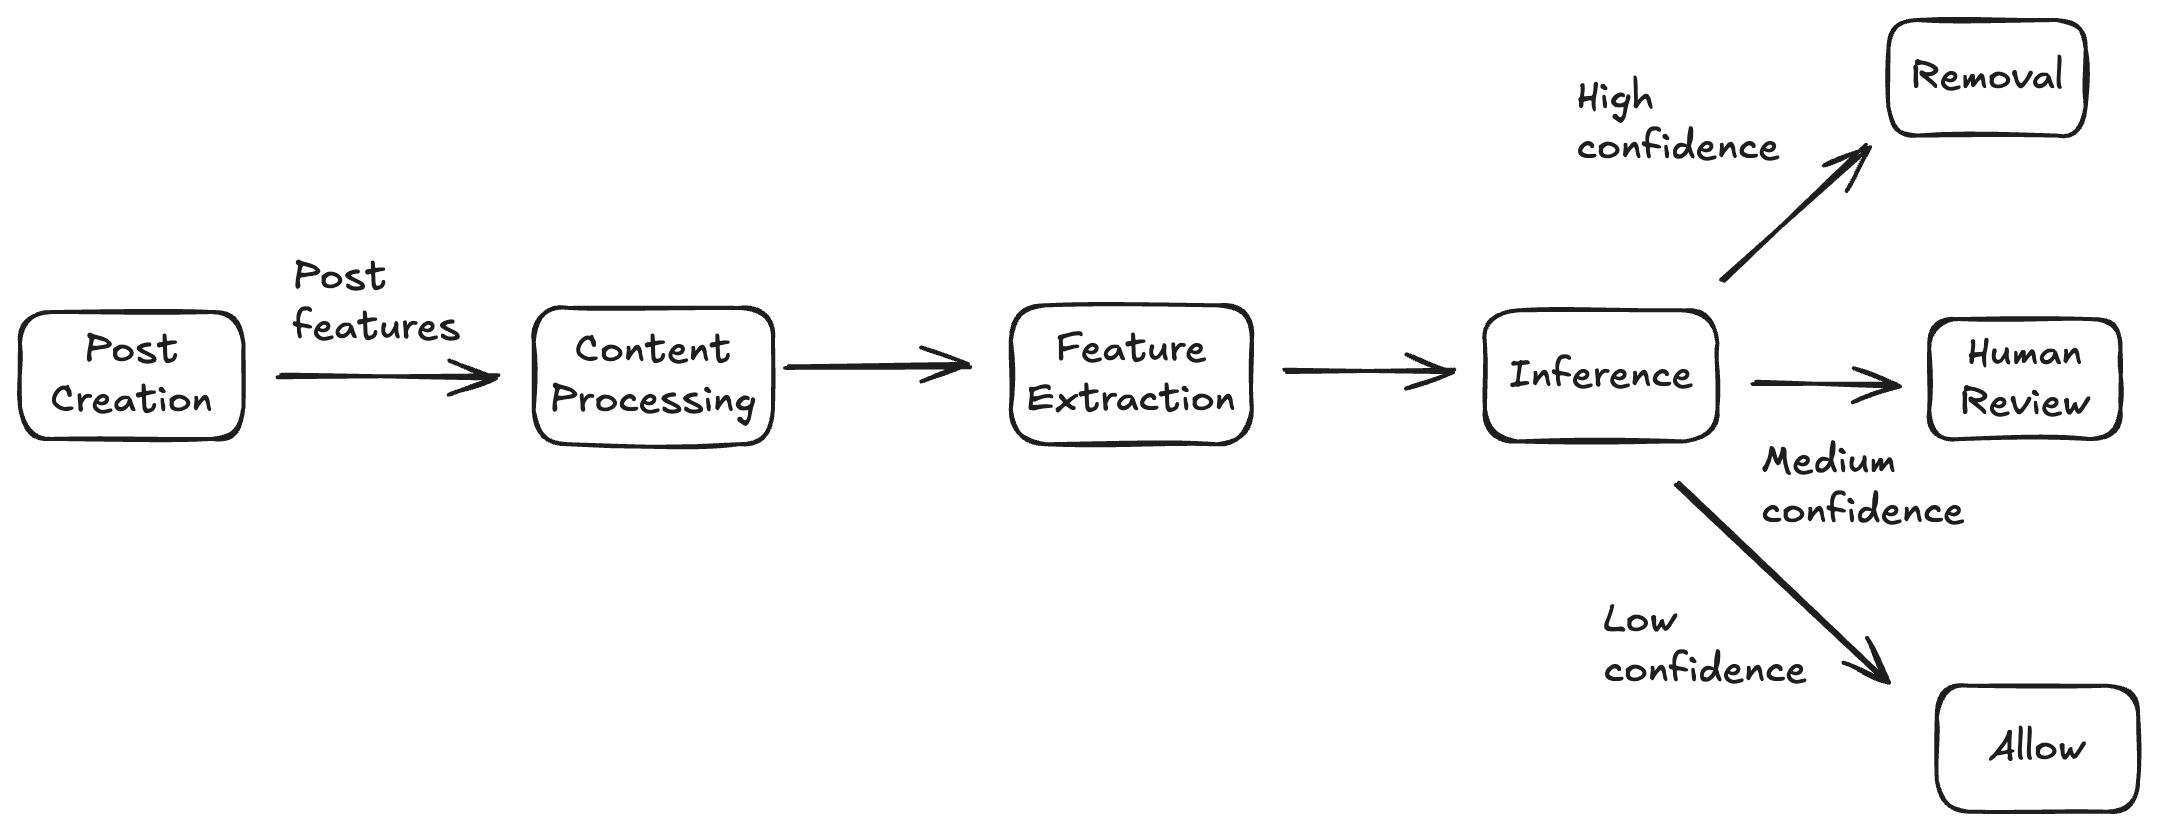
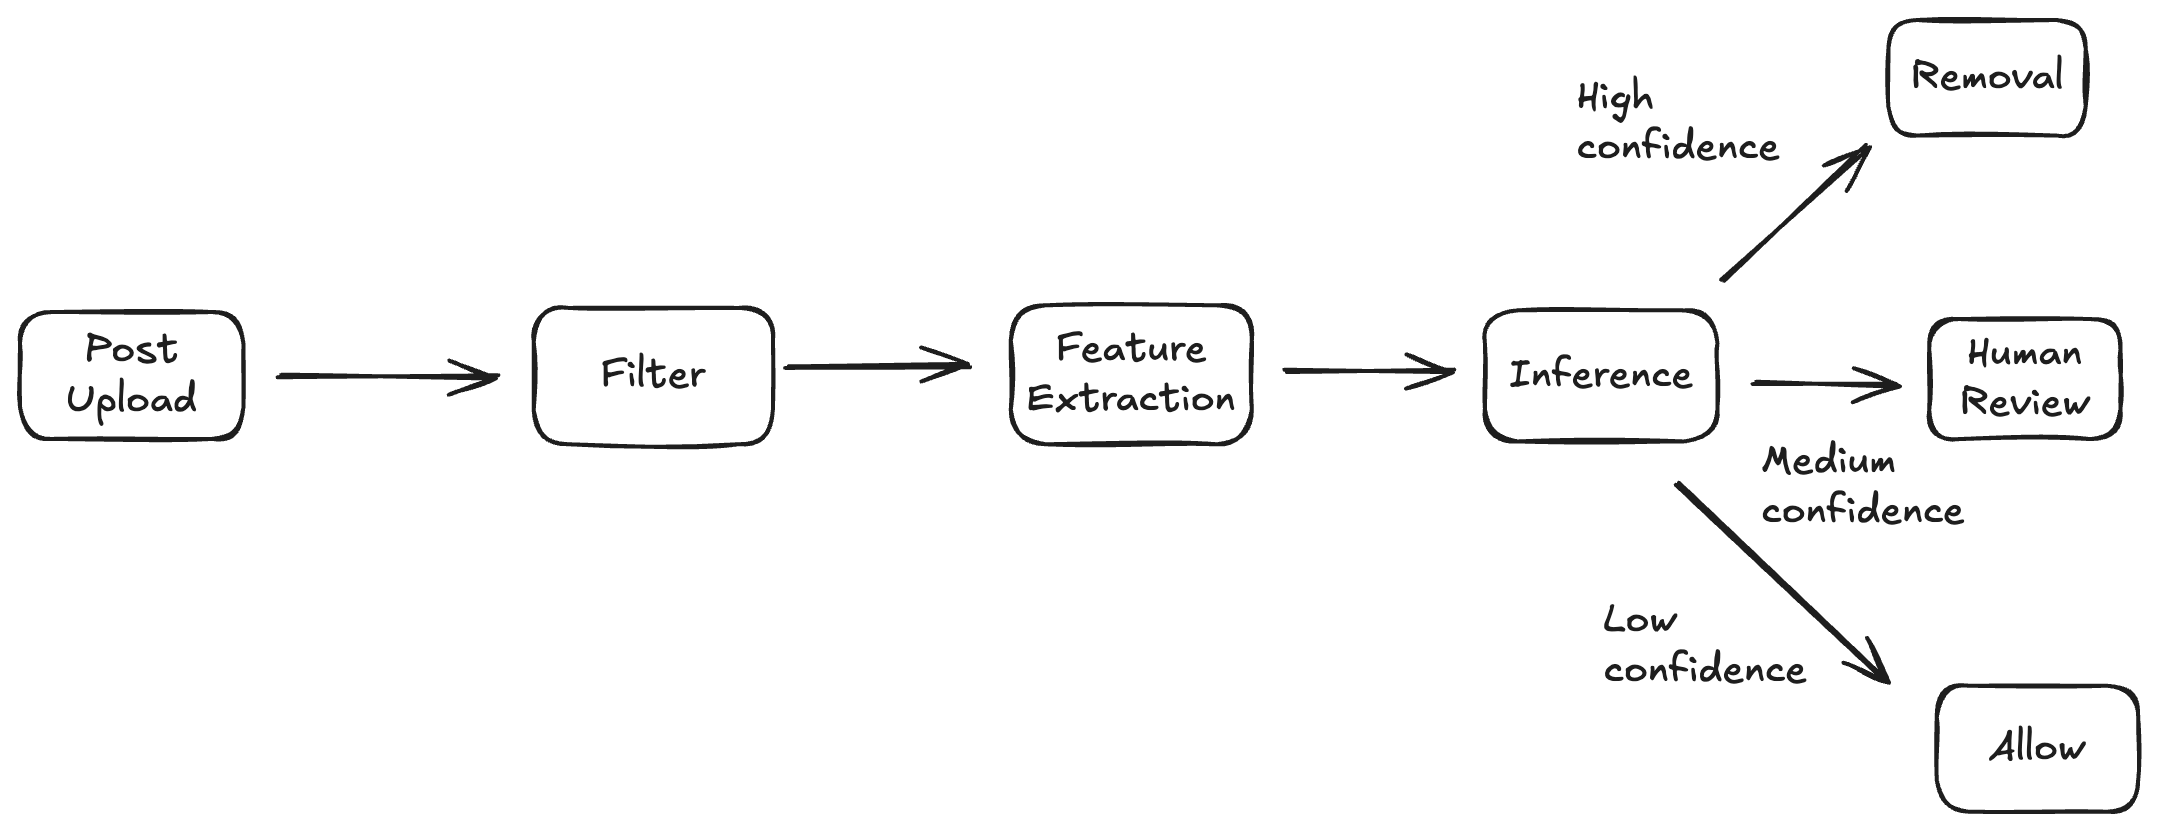
Update machine learning system design guides

Changed region(s): [[0.2484, 0.3911, 0.3726, 0.5114], [0.1242, 0.3008, 0.2173, 0.4212], [0.031, 0.4513, 0.0931, 0.5114]]

diff --git a/machine-learning-system-design/1-harmful-content-detection.html b/machine-learning-system-design/1-harmful-content-detection.html
@@ -77,50 +77,39 @@ Business problem
 
 # High-Level Design
 
-Post Creation -> Content Processing -> Feature Extraction -> Inference -> Remove or Human Review or Allow
+Post Upload -> Filter -> Feature Extraction -> Inference -> Remove or Human Review or Allow
 
 # Data and Feature Engineering
 
 Training data
-  Use human labelling and user reports
+  Human labelling
+  User reports
 
 Features
-  Text
-  Image
-  Video
-  Number of reports, likes, comment, share, etc
-  Comments
-  Author’s violation history
-  Date of author’s account creation
+  Post - text, image, video
+  Author - violation history, date of account creation
 
 Feature engineering
   Text - BERT
   Image/Video - CLIP
-  Numerical - Standardize (Mean 0, Var 1)
+  Numerical (violation history) - Standardize (Mean 0, Var 1)
   Date - convert to numerical (For example, number of days since a fixed date) 
 
 # Model Development
 
 Baseline
-  Heuristics - just use number of reports
   Logistic regression - binary classification to determine whether a post in harmful or not
+  Try this first to see if ML/business objective can be achieved
 
 Architecture
   Separate model for violence/hate/nude - lots of training data needed, training cost
   Create one model but with different classification heads for violence/hate/nude
 
 Training
+  Binary classification  - use cross-entropy (log-loss)
   Loss - compute individual loss for violence/hate/nude, then create weighted sum of those losses
-  Binary classification  - use cross-entropy (log-loss)  
-
-# Inference and Evaluation
-
-Multi-stage inference
-  Filter
-    Blacklisted keyword
-    Known harmful images
-  Model
-  Human Review for borderline case
+  
+# Evaluation
 
 Offline
   Recall - percentage of actual harmful content that the model was able to retrieve
@@ -128,12 +117,20 @@ Offline
   PR-AUC
 
 Online
-  A/B testing
+  Total number of harmful impressions
 
 # Detailed Design
-Scalability
-Adversarial behavior
+
+Filter
+  Blacklisted keyword
+  Known harmful images
+
+Inference
+  Use fast and light model first
+  Use slow and heavy model after the post passes the review for double checking
+
 Feedback loop
+  Use human review for further training dataset
 </code></pre>
 
     <img class="img-fluid" class="card-img-top" src="/machine-learning-system-design/image/mlsd-1/harmful-content-detection-1.png" alt="Card image cap">

diff --git a/machine-learning-system-design/1-feed-recommendation.html b/machine-learning-system-design/1-feed-recommendation.html
@@ -148,7 +148,7 @@ Online
 # Detailed Design
 
 Candidate generation
-  Use batch features only
+∑  Use batch features only
   Compute 10k candidates offline
   For each user, store candidates into cache for fast retrieval (Cons. storage footprint)
 
